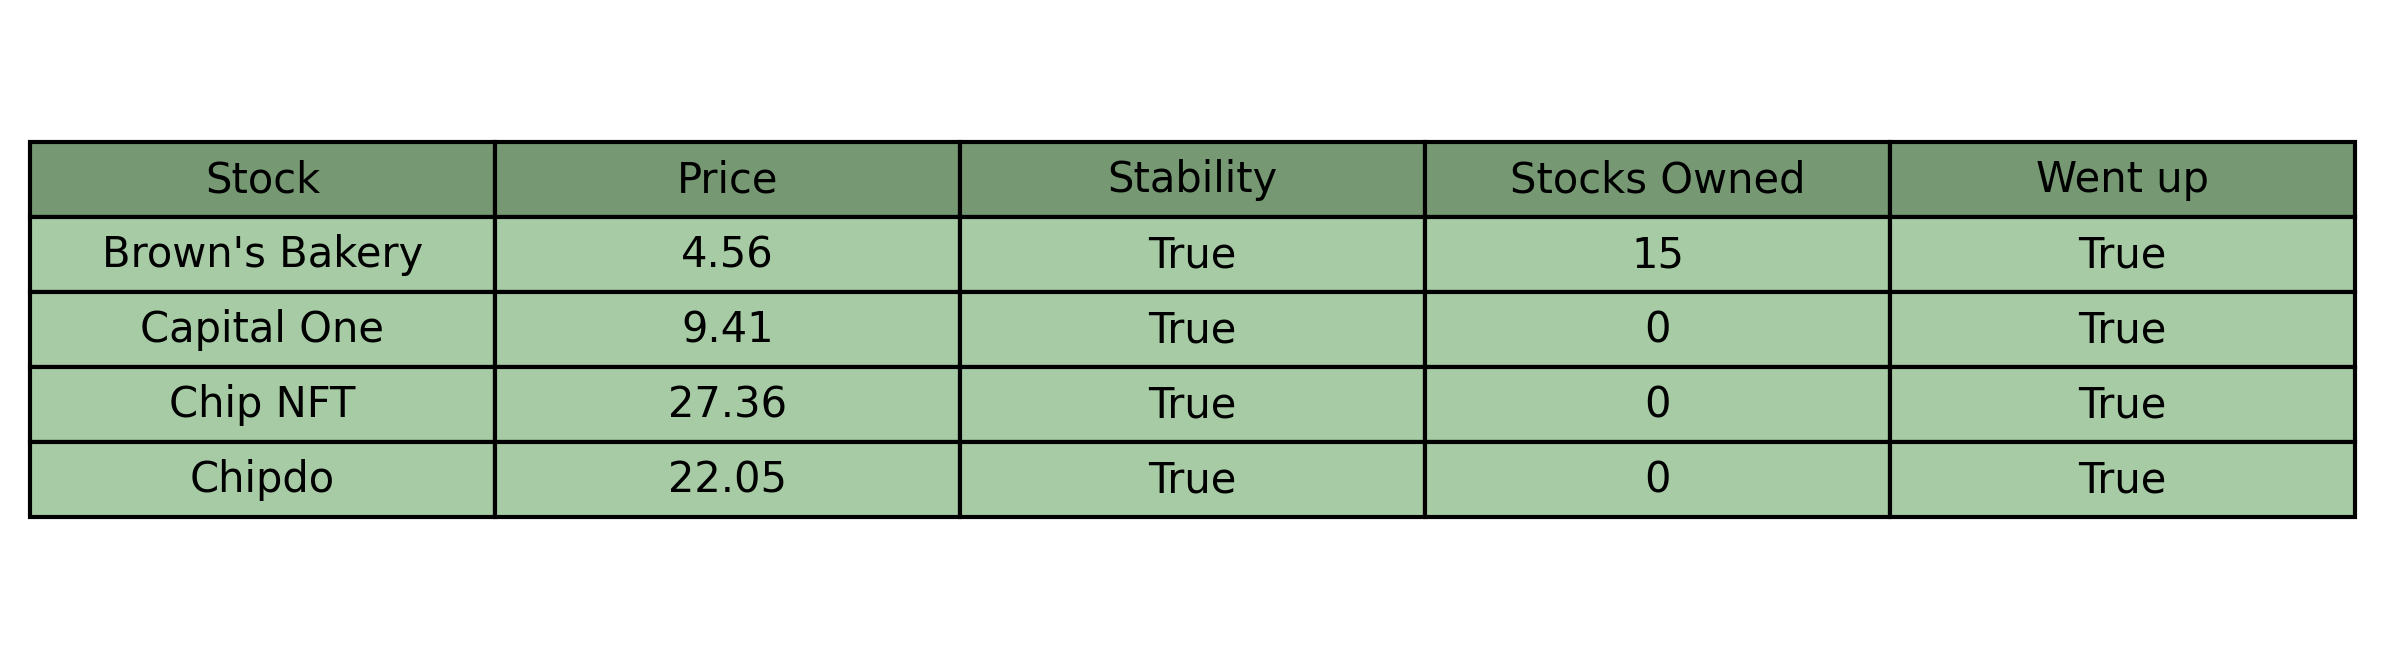
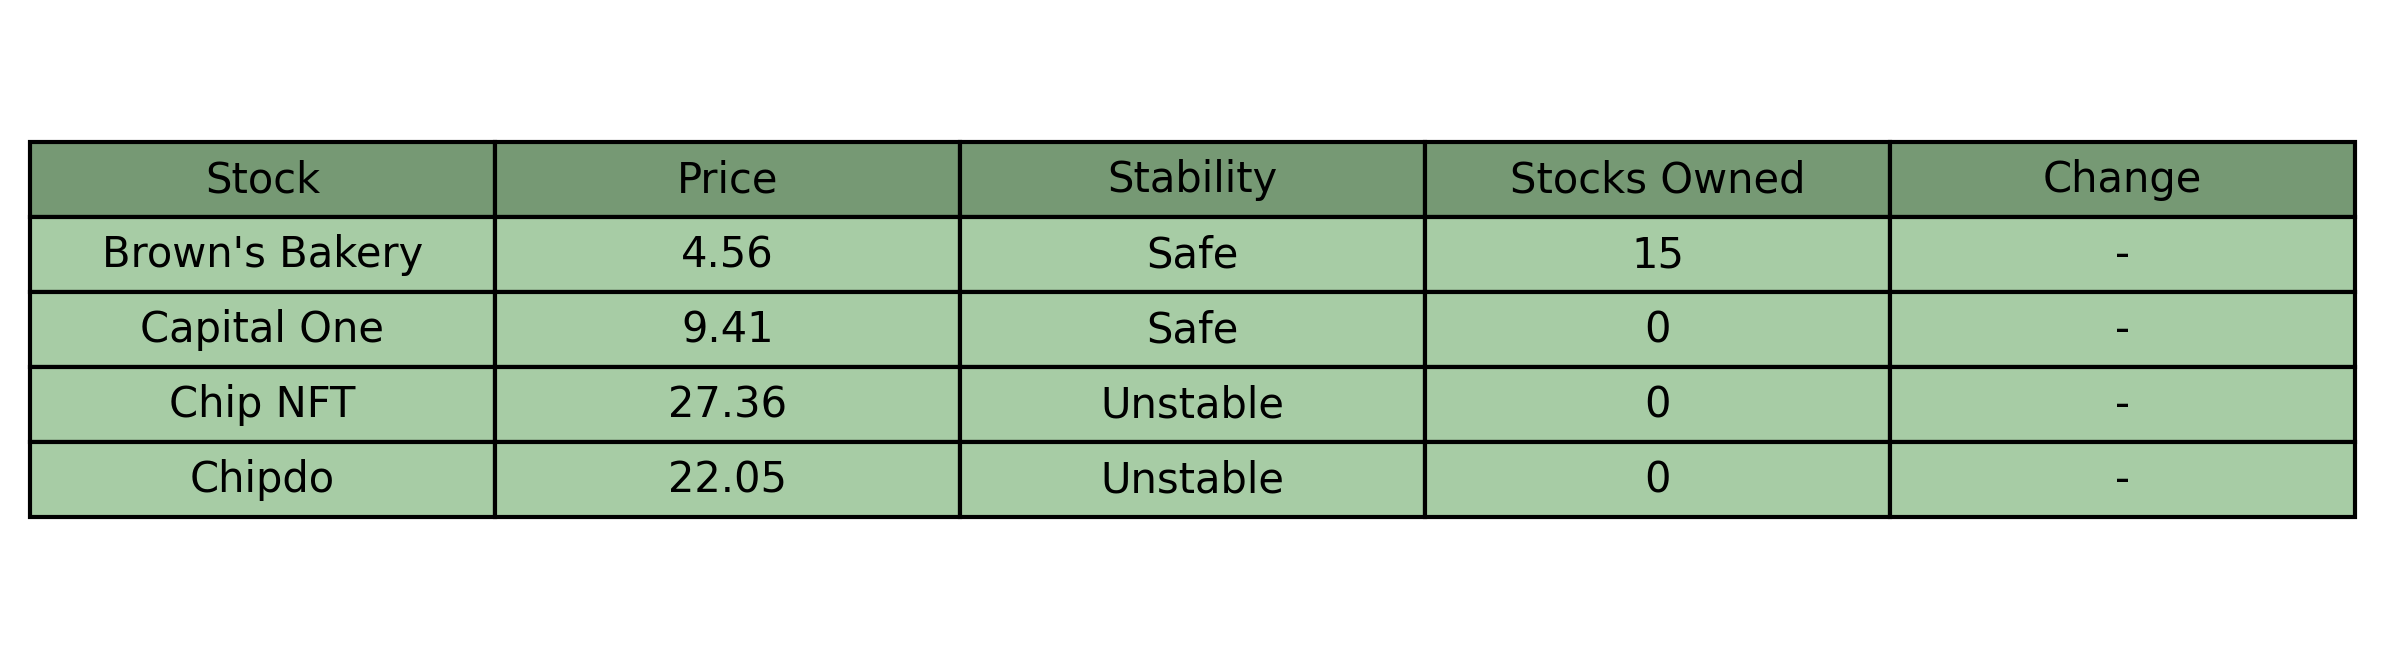
STONKS GO UP???

diff --git a/BaseCodeFiles/investment.py b/BaseCodeFiles/investment.py
@@ -42,7 +42,7 @@ class StockMarket:
             if stock == 'Unnamed: 0':
                 continue
             stockData = df[stock].tolist()
-            newStock = Stock(float(stockData[0]), bool(stockData[1]), stock, int(stockData[2]), bool(stockData[3]))
+            newStock = Stock(float(stockData[0]), str(stockData[1]), stock, int(stockData[2]), str(stockData[3]))
             self.stocks.append(newStock)
         return self.stocks
         # returns list of Stocks (class)
@@ -65,6 +65,19 @@ class StockMarket:
         df.rename(index={0: 'Stock', 1: 'Price', 2: 'Stability', 3: 'Stocks Owned', 4: 'Went up'}, inplace=True)
         df = df.transpose()
         df.drop('Unnamed: 0', axis=0, inplace=True)
+
+        for index, row in df.iterrows():
+            if row['Stability'] == 'True':
+                row['Stability'] = 'Safe'
+            if row['Stability'] == 'False':
+                row['Stability'] = 'Unstable'
+
+            if row['Change'] == 'True':
+                row['Change'] = '↑'
+            if row['Change'] == 'False':
+                row['Change'] = '↓'
+            if row['Change'] == 'none':
+                row['Change'] = '-'
 
         # Step 2: Create a table using matplotlib
         fig, ax = plt.subplots(figsize=(10, len(df) * 0.4 + 1))  # Adjust the size accordingly
@@ -121,7 +134,7 @@ class Stock:
         stockMarketObject.updateAllStocks()
 
     def updateStock(self):
-        if self.isSafe == True:
+        if self.isSafe == 'True':
             safetyVar = 4
             perVar = 6
         else:
@@ -131,11 +144,11 @@ class Stock:
         upOrDown = random.randrange(1, safetyVar)
         percentageChange = random.randrange(1, perVar)
         if upOrDown == 1:
-            self.wentUp = True
+            self.wentUp = 'True'
             self.currentPrice = self.currentPrice * (1 + (percentageChange / 100))
             self.currentPrice = round(self.currentPrice, 2)
         else:
-            self.wentUp = False
+            self.wentUp = 'False'
             self.currentPrice = self.currentPrice * (1 - (percentageChange / 100))
             self.currentPrice = round(self.currentPrice, 2)
 

diff --git a/BaseCodeFiles/testing.py b/BaseCodeFiles/testing.py
@@ -12,9 +12,23 @@ names = {"Brown's Bakery": ["Brown's Bakery"],
 dfExtra = pd.DataFrame(names)
 df = pd.concat([dfExtra, df], ignore_index = True)
 df.reset_index()
-df.rename(index={0:'Stock', 1: 'Price', 2:'Stability', 3:'Stocks Owned', 4:'Went up'}, inplace=True)
+df.rename(index={0:'Stock', 1: 'Price', 2:'Stability', 3:'Stocks Owned', 4:'Change'}, inplace=True)
 df = df.transpose()
 df.drop('Unnamed: 0',axis=0,inplace=True)
+
+for index, row in df.iterrows():
+    if row['Stability'] == 'True':
+        row['Stability'] = 'Safe'
+    if row['Stability'] == 'False':
+        row['Stability'] = 'Unstable'
+
+    if row['Change'] == 'True':
+        row['Change'] = '↑'
+    if row['Change'] == 'False':
+        row['Change'] = '↓'
+    if row['Change'] == 'none':
+        row['Change'] = '-'
+
 
 # Step 2: Create a table using matplotlib
 fig, ax = plt.subplots(figsize=(10, len(df)*0.4 + 1))  # Adjust the size accordingly
